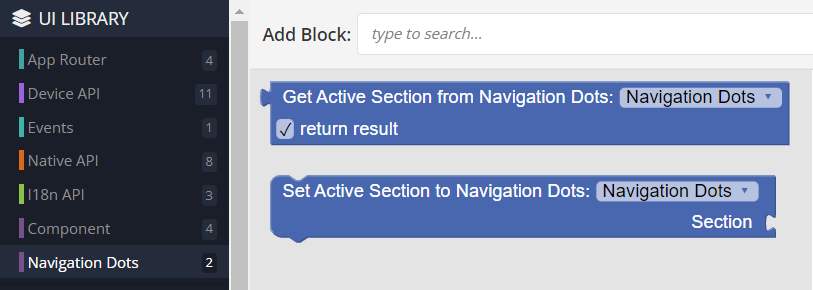
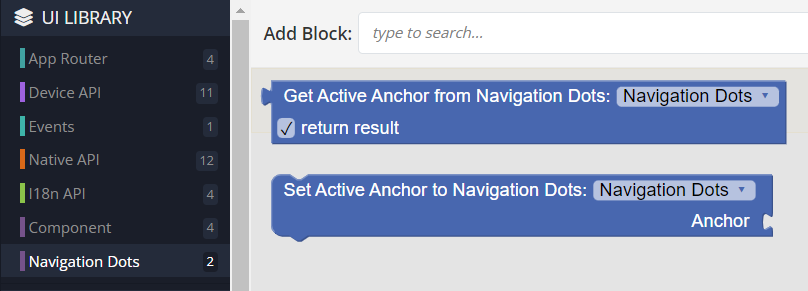
update component

diff --git a/components/bl-navigation-dots/src/index.js b/components/bl-navigation-dots/src/index.js
@@ -2,80 +2,81 @@ import { useCallback, useEffect, useMemo, useState } from 'react';
 
 const { cn } = BackendlessUI.CSSUtils;
 
+const ScrollBehavior = {
+  SMOOTH: 'smooth',
+  AUTO  : 'auto',
+};
+
 export default function NavigationDotsComponent({ component, eventHandlers, elRef }) {
   const {
-    classList, style, display, sections, dotShape, background, color, tooltip, tooltipBackground, tooltipColor,
+    classList, style, display, anchors, dotShape, background, color,
+    tooltip, tooltipBackground, tooltipColor, smoothScroll,
   } = component;
-  const { onClick } = eventHandlers;
+  const { onAnchorChange } = eventHandlers;
 
   const [activeDotIndex, setActiveDotIndex] = useState(0);
   const [scrollEnabled, setScrollEnabled] = useState(true);
 
   const styles = useMemo(() => ({
     '--nav-item-background': background,
-    '--nav-item-color': color,
-    '--tooltip-background': tooltipBackground,
-    '--tooltip-color': tooltipColor,
+    '--nav-item-color'     : color,
+    '--tooltip-background' : tooltipBackground,
+    '--tooltip-color'      : tooltipColor,
     ...style,
   }), [style, background, color, tooltipBackground, tooltipColor]);
 
+  const scrollBehavior = useMemo(() => smoothScroll ? ScrollBehavior.SMOOTH : ScrollBehavior.AUTO, [smoothScroll]);
+
   const scrollHandler = useCallback(() => {
-    if (!scrollEnabled || !sections) {
+    if (!scrollEnabled || !anchors) {
       return;
     }
 
-    const windowHeight = window.innerHeight;
-
-    let newActiveDotIndex = -1;
-
-    for (let i = 0; i < sections.length; i++) {
-      const sectionElement = document.getElementById(sections[i].anchor);
-
-      if (sectionElement) {
-        const rect = sectionElement.getBoundingClientRect();
-
-        if (rect.top <= windowHeight / 2 && rect.bottom >= windowHeight / 2) {
-          newActiveDotIndex = i;
-          break;
-        }
-      }
-    }
+    const newActiveDotIndex = calculateActiveDotIndex(anchors);
 
     setActiveDotIndex(newActiveDotIndex);
-  }, [scrollEnabled, sections]);
+
+    if (newActiveDotIndex !== activeDotIndex) {
+      onAnchorChange({ activeAnchor: anchors[newActiveDotIndex] });
+    }
+  }, [scrollEnabled, anchors, onAnchorChange, activeDotIndex]);
 
   const dotClickHandler = useCallback(index => {
-    if (!sections || !sections[index]) {
+    if (!anchors || !anchors[index]) {
       return;
     }
 
     setScrollEnabled(false);
     setActiveDotIndex(index);
 
-    const anchor = sections[index].anchor;
-    const sectionElement = document.getElementById(anchor);
+    const activeAnchor = anchors[index];
+    const sectionElement = document.getElementById(activeAnchor);
 
     if (sectionElement) {
-      sectionElement.scrollIntoView({ behavior: 'smooth' });
-      onClick({ activeSection: sections[index] });
+      sectionElement.scrollIntoView({ behavior: scrollBehavior });
+      onAnchorChange({ activeAnchor });
     }
 
-    setTimeout(() => {
-      setScrollEnabled(true);
-    }, 1000);
-  }, [sections, onClick]);
+    setTimeout(() => setScrollEnabled(true), 1000);
+  }, [anchors, onAnchorChange, smoothScroll]);
+
+  useEffect(() => {
+    document.documentElement.style.scrollBehavior = scrollBehavior;
+  }, [smoothScroll]);
 
   useEffect(() => {
     window.addEventListener('scroll', scrollHandler);
 
-    return () => {
-      window.removeEventListener('scroll', scrollHandler);
-    };
+    return () => window.removeEventListener('scroll', scrollHandler);
   }, [scrollHandler]);
 
-  component.getActiveSection = () => sections[activeDotIndex];
-  component.setActiveSection = section => {
-    const index = sections.findIndex(s => s === section);
+  useEffect(() => {
+    anchorValidation(anchors);
+  }, [anchors]);
+
+  component.getActiveAnchor = () => anchors[activeDotIndex];
+  component.setActiveAnchor = anchor => {
+    const index = anchors.findIndex(a => a === anchor);
 
     if (index !== -1) {
       dotClickHandler(index);
@@ -88,24 +89,79 @@ export default function NavigationDotsComponent({ component, eventHandlers, elRe
 
   return (
     <div className={ cn('bl-customComponent-navigation-dots', classList) } ref={ elRef } style={ styles }>
-      <ul className="nav">
 
-        { sections?.map((section, index) => (
-          <li key={ index }>
-            <a
-              className={ cn('nav-item', dotShape, { active: activeDotIndex === index }) }
-              href={ `#${ section.anchor }` }
-              onClick={ () => dotClickHandler(index) }>
+      { anchors &&
+        <Nav
+          anchors={ anchors }
+          activeDotIndex={ activeDotIndex }
+          dotShape={ dotShape }
+          tooltip={ tooltip }
+          dotClickHandler={ dotClickHandler }
+        />
+      }
 
-              { tooltip && (
-                <span className="nav-item-tooltip">{ section.anchor }</span>
-              ) }
-
-            </a>
-          </li>
-        )) }
-
-      </ul>
     </div>
   );
+}
+
+function Nav({ anchors, activeDotIndex, dotShape, tooltip, dotClickHandler }) {
+  return (
+    <ul className="nav">
+
+      { anchors.map((anchor, index) => (
+        <NavDotItem
+          key={ anchor }
+          index={ index }
+          isActive={ activeDotIndex === index }
+          dotShape={ dotShape }
+          anchor={ anchor }
+          tooltip={ tooltip }
+          onClick={ dotClickHandler }
+        />
+      )) }
+
+    </ul>
+  );
+}
+
+function NavDotItem({ index, isActive, dotShape, anchor, tooltip, onClick }) {
+  return (
+    <li>
+      <a
+        className={ cn('nav-item', dotShape, { active: isActive }) }
+        href={ `#${ anchor }` }
+        onClick={ () => onClick(index) }>
+
+        { tooltip && <span className="nav-item-tooltip">{ anchor }</span> }
+
+      </a>
+    </li>
+  );
+}
+
+function calculateActiveDotIndex(anchors) {
+  const windowHeight = window.innerHeight;
+
+  let newActiveDotIndex = -1;
+
+  for (let i = 0; i < anchors.length; i++) {
+    const sectionElement = document.getElementById(anchors[i]);
+
+    if (sectionElement) {
+      const rect = sectionElement.getBoundingClientRect();
+
+      if (rect.top <= windowHeight / 2 && rect.bottom >= windowHeight / 2) {
+        newActiveDotIndex = i;
+        break;
+      }
+    }
+  }
+
+  return newActiveDotIndex;
+}
+
+function anchorValidation(anchors) {
+  if (anchors && !anchors.every(anchor => anchor && typeof anchor === 'string')) {
+      console.error("Error: anchor in 'anchors' prop is missing, invalid, or contains non-string value in NavigationDotsComponent.");
+  }
 }

diff --git a/components/bl-navigation-dots/styles/index.less b/components/bl-navigation-dots/styles/index.less
@@ -35,7 +35,6 @@
 @bl-customComponent-navigation-dots-tooltip-borderRadius: 100px;
 @bl-customComponent-navigation-dots-tooltip-padding: 3px 8px;
 
-
 .bl-customComponent-navigation-dots {
   display: flex;
   align-items: center;
@@ -63,7 +62,6 @@
     &:before {
       content: "";
       display: block;
-      pointer-events: auto !important;
       transform: @bl-customComponent-navigation-dots-nav-item-transform;
     }
 

diff --git a/components/bl-navigation-dots/README.md b/components/bl-navigation-dots/README.md
@@ -8,28 +8,29 @@ Navigation Dots is the component that can be used in Backendless [UI-Builder](ht
 
 ## Properties
 
-| Property                                    | Type                                           | Default value     | Logic                    | Data Binding | UI Setting | Description                                                                                                               |
-|---------------------------------------------|------------------------------------------------|-------------------|--------------------------|--------------|------------|---------------------------------------------------------------------------------------------------------------------------|
-| Sections <br> `sections`                    | *JSON*                                         | `[]`              | Sections Logic           | YES          | NO         | This logic allows you to specify the array of sections.  Signature of sections: list of DOM elements `[Element, Element]` |
-| Dot Shape <br> `dotShape`                   | *Select* <br> [`circle`, `square`, `triangle`] | `circle`          |                          | NO           | YES        | Controls the dot shape type.                                                                                              |
-| Dot Background <br> `background`            | *Color*                                        | `rgba(0,0,0,0.7)` | Dot Background Logic     | YES          | YES        | This logic allows you to specify the color of the dot container.                                                          |
-| Dot Color <br> `color`                      | *Color*                                        | `#ffffff`         | Dot Color Logic          | YES          | YES        | This logic allows you to specify the color of an internal dot.                                                            |
-| Tooltip <br> `tooltip`                      | *Checkbox*                                     | `true`            |                          | NO           | YES        | Controls whether a tooltip will be shown when hovering over a dot by default or not.                                      |
-| Tooltip Background <br> `tooltipBackground` | *Color*                                        | `rgba(0,0,0,0.7)` | Tooltip Background Logic | YES          | YES        | This logic allows you to specify the background of the tooltip.                                                           |
-| Tooltip Color <br> `tooltipColor`           | *Color*                                        | `#ffffff`         | Tooltip Color Logic      | YES          | YES        | This logic allows you to specify the color of the tooltip.                                                                |
+| Property                                    | Type                                           | Default value     | Logic                    | Data Binding | UI Setting | Description                                                                                                      |
+|---------------------------------------------|------------------------------------------------|-------------------|--------------------------|--------------|------------|------------------------------------------------------------------------------------------------------------------|
+| Anchors <br> `anchors`                      | *JSON*                                         | `[]`              | Anchors Logic            | YES          | YES        | This logic allows you to specify the array of anchors.  Signature of anchors: list of anchors `[String, String]` |
+| Dot Shape <br> `dotShape`                   | *Select* <br> [`circle`, `square`, `triangle`] | `circle`          |                          | NO           | YES        | Controls the dot shape type.                                                                                     |
+| Dot Background <br> `background`            | *Color*                                        | `rgba(0,0,0,0.7)` | Dot Background Logic     | YES          | YES        | This logic allows you to specify the color of the dot container.                                                 |
+| Dot Color <br> `color`                      | *Color*                                        | `#ffffff`         | Dot Color Logic          | YES          | YES        | This logic allows you to specify the color of an internal dot.                                                   |
+| Tooltip <br> `tooltip`                      | *Checkbox*                                     | `true`            |                          | NO           | YES        | Controls whether a tooltip will be shown when hovering over a dot by default or not.                             |
+| Tooltip Background <br> `tooltipBackground` | *Color*                                        | `rgba(0,0,0,0.7)` | Tooltip Background Logic | YES          | YES        | This logic allows you to specify the background of the tooltip.                                                  |
+| Tooltip Color <br> `tooltipColor`           | *Color*                                        | `#ffffff`         | Tooltip Color Logic      | YES          | YES        | This logic allows you to specify the color of the tooltip.                                                       |
+| Smooth Scrolling <br> `smoothScroll`        | *Checkbox*                                     | `true`            |                          | NO           | YES        | Controls whether scrolling will be smooth by default or not.                                                     |
 
 ## Events
 
-| Name     | Triggers                               | Context Blocks            |
-|----------|----------------------------------------|---------------------------|
-| On Click | when the user clicks on the component. | Active Section: `Element` |
+| Name             | Triggers                                                                                                   | Context Blocks          |
+|------------------|------------------------------------------------------------------------------------------------------------|-------------------------|
+| On Anchor Change | when the active anchor changes (by clicking on a navigation dot or scrolling to the corresponding section) | Active Anchor: `String` |
 
 ## Actions
 
-| Action                                  | Inputs             | Returns   |
-|-----------------------------------------|--------------------|-----------|
-| Get Active Section from Navigation Dots |                    | `Element` |
-| Set Active Section to Navigation Dots   | Section: `Element` |           |
+| Action                                 | Inputs           | Returns          |
+|----------------------------------------|------------------|------------------|
+| Get Active Anchor from Navigation Dots |                  | Anchor: `String` |
+| Set Active Anchor to Navigation Dots   | Anchor: `String` |                  |
 
 ## Styles
 
@@ -94,10 +95,16 @@ Each of the sections (these are ordinary container blocks, for example) needs to
   <img src="./example-images/section-id-anchor.png" alt="add section id and anchor" width="500"/>
 </p>
 
-The third step is to add logic for the navigation sections in our Navigation Dots component logic.
+The third step is to add logic for the navigation anchors in our Navigation Dots component logic.
 
 <p align="center">
-  <img src="./example-images/sections-logic.png" alt="add section id and anchor" width="780"/>
+  <img src="./example-images/anchors-logic.png" alt="add list of anchors" width="780"/>
+</p>
+
+Or this way
+
+<p align="center">
+  <img src="./example-images/anchors-logic1.png" alt="add list of anchors other way" width="780"/>
 </p>
 
 After this, you can view the result. Clicking on a navigation dot will scroll the page to the corresponding section. In this case, a normal scroll across the page between sections will display the corresponding dot of the navigation bar active.
@@ -106,20 +113,8 @@ After this, you can view the result. Clicking on a navigation dot will scroll th
   <img src="./example-images/example-view.png" alt="example view" width="780"/>
 </p>
 
-In addition, you have two actions at your disposal: `Get Active Section from Navigation Dots` will return the currently active DOM element, and `Set Active Section to Navigation Dots` will set the passed DOM element as the active section (at the moment that you need according to the logic of your project).
+In addition, you have two actions at your disposal: `Get Active Anchor from Navigation Dots` will return the currently active anchor of DOM element, and `Set Active Anchor to Navigation Dots` will set the passed anchor of DOM element as the active anchor (at the moment that you need according to the logic of your project).
 
 <p align="center">
   <img src="./example-images/actions.png" alt="example view" width="780"/>
-</p>
-
-And one more point regarding the smoothness of scrolling. In order to ensure smooth scrolling between sections, add the following parameter to your html in styles.
-
-````
-html {
-  scroll-behavior: smooth;
-}
-````
-
-<p align="center">
-  <img src="./example-images/scroll-behavior.png" alt="scroll-behavior" width="780"/>
 </p>
